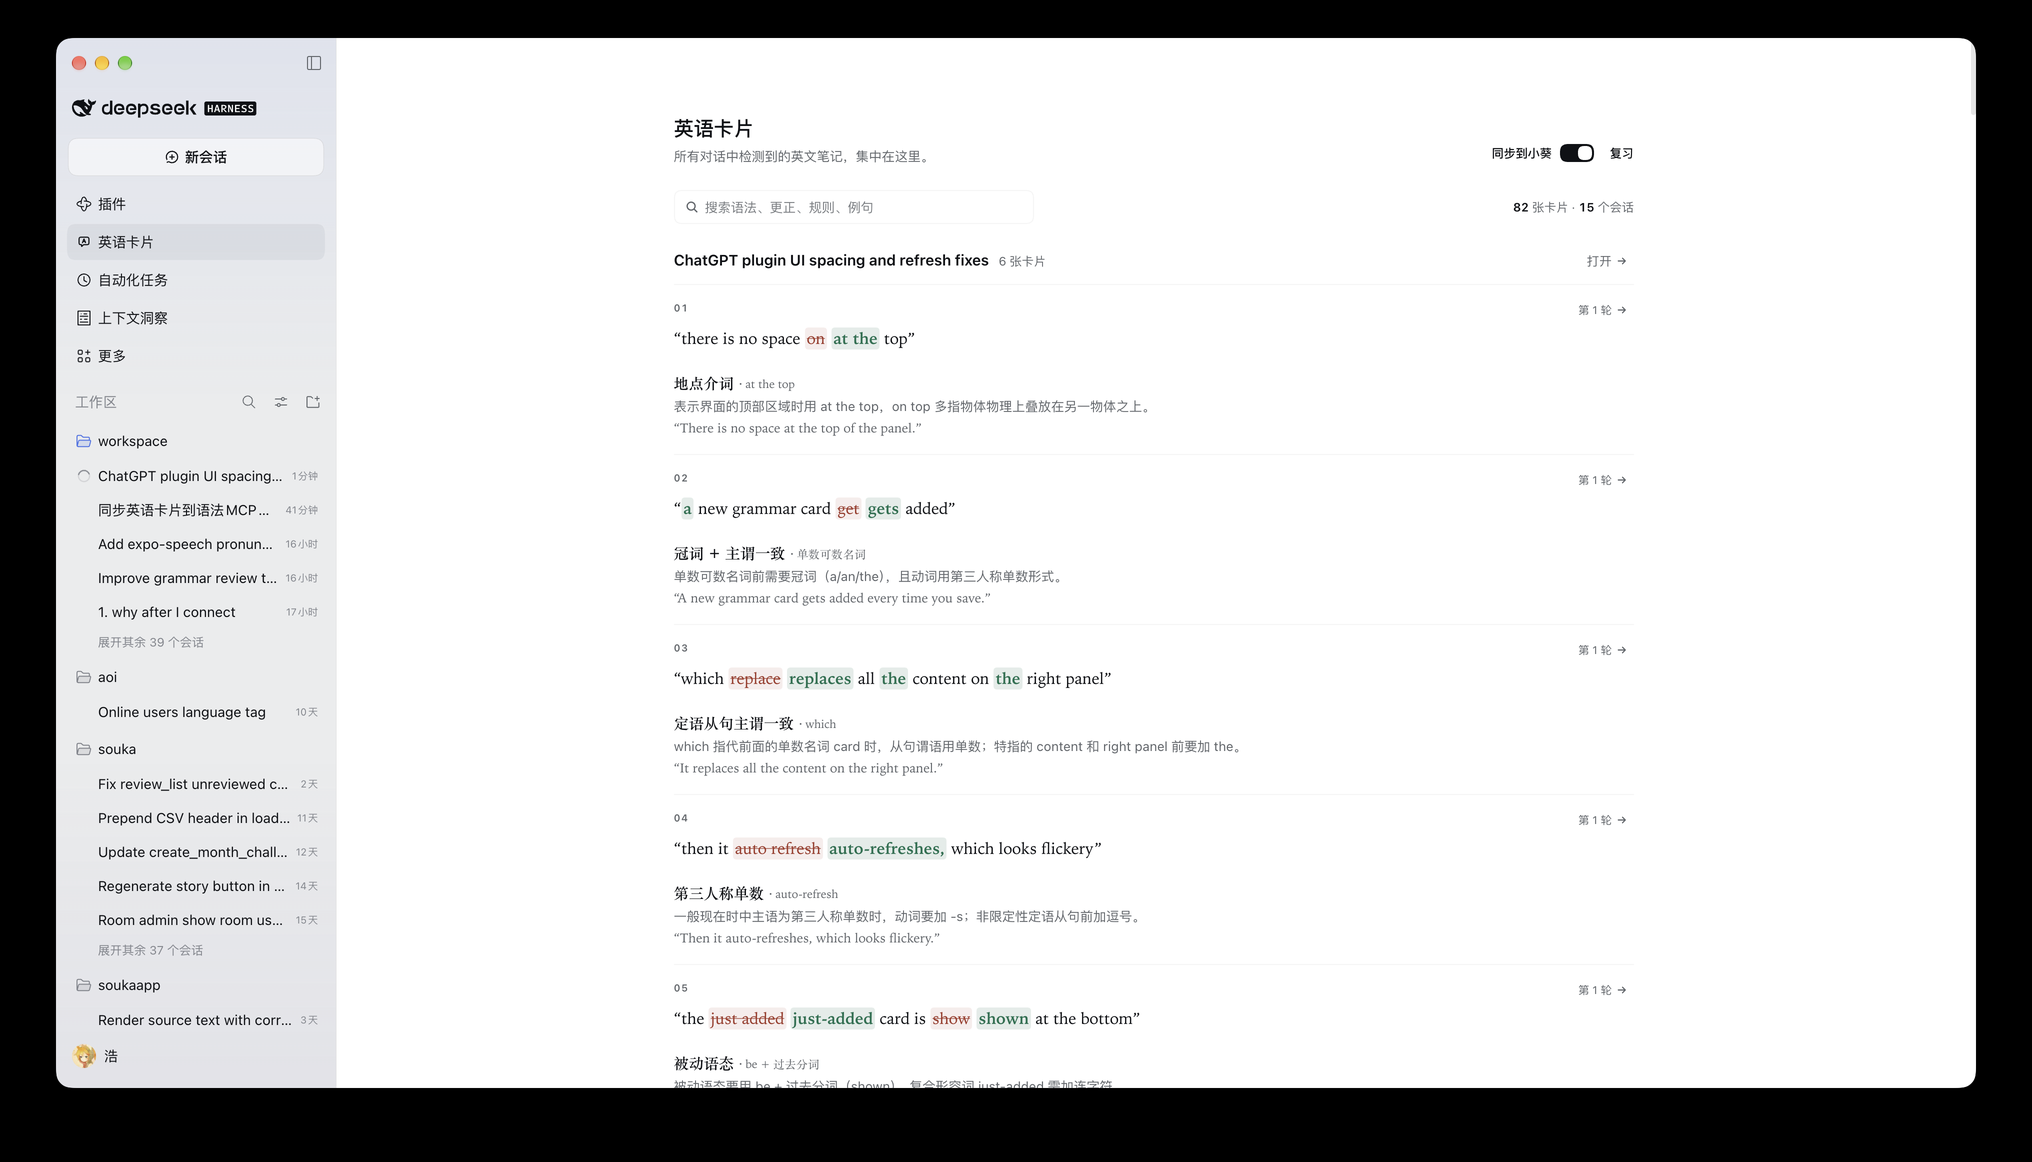
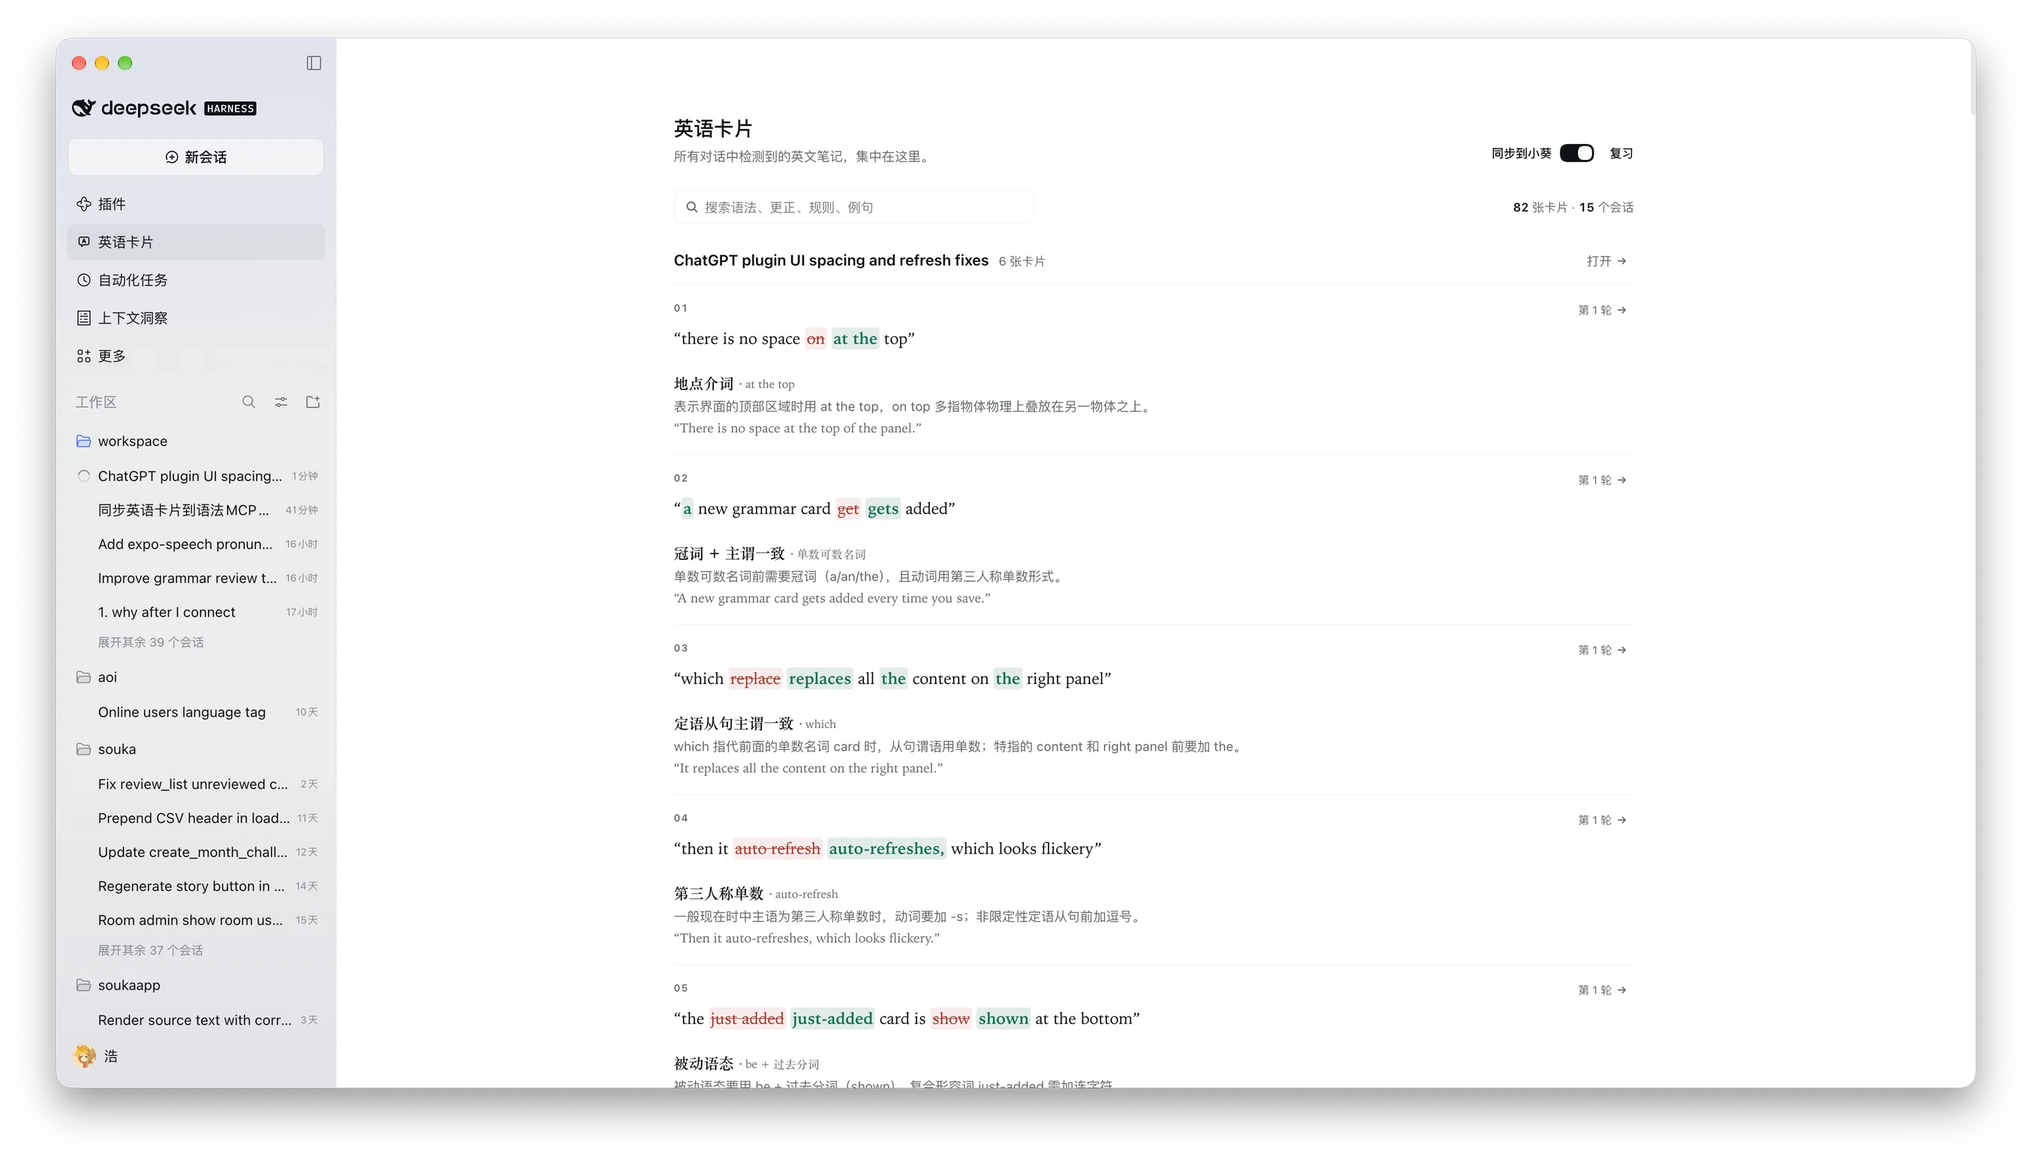
update screenshots

Changed region(s): [[0.0, 0.0, 1.0, 1.0]]

diff --git a/README.md b/README.md
@@ -37,7 +37,7 @@ dsh-english-cards
 
 ### 其他 Agent
 
-上面的插件是给 DeepSeek Harness 用的。在 Claude Code、ChatGPT/Codex、Cursor、Grok Bot 等 [Agent Plugins](https://agent-plugins.org) 宿主里，请改装便携版 **Aoi Grammar Cards**：它连托管的 MCP 服务 `https://aoilang.com/grammar/mcp`，卡片存到你的免费[小葵（Aoi）](https://aoilang.com)账号。安装说明见 [aoilang/aoi-plugins → plugins/english-cards](https://github.com/aoilang/aoi-plugins/tree/main/plugins/english-cards)。
+上面的插件是给 DeepSeek Harness 用的。在 Claude Code、ChatGPT/Codex、Cursor 等支持 [Agent Plugins](https://agent-plugins.org) Agent里，请安装 [aoilang/aoi-plugins → plugins/english-cards](https://github.com/aoilang/aoi-plugins/tree/main/plugins/english-cards)。
 
 - **Claude Code**：`/plugin marketplace add aoilang/aoi-plugins`，再 `/plugin install aoi-grammar-cards@aoi-plugins`。
 - **ChatGPT 桌面版 / Codex**：`codex plugin marketplace add aoilang/aoi-plugins`，然后在插件目录里装 **English Cards**（或在 Codex 里运行 `codex plugin add aoi-grammar-cards@aoi-plugins`）。
